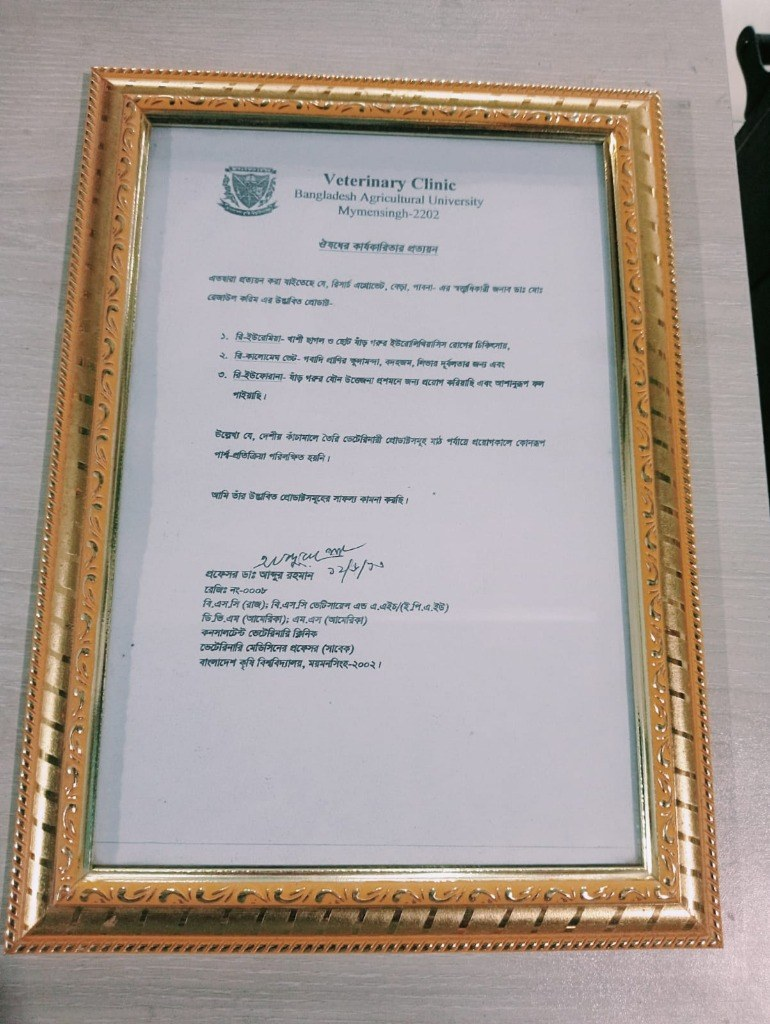
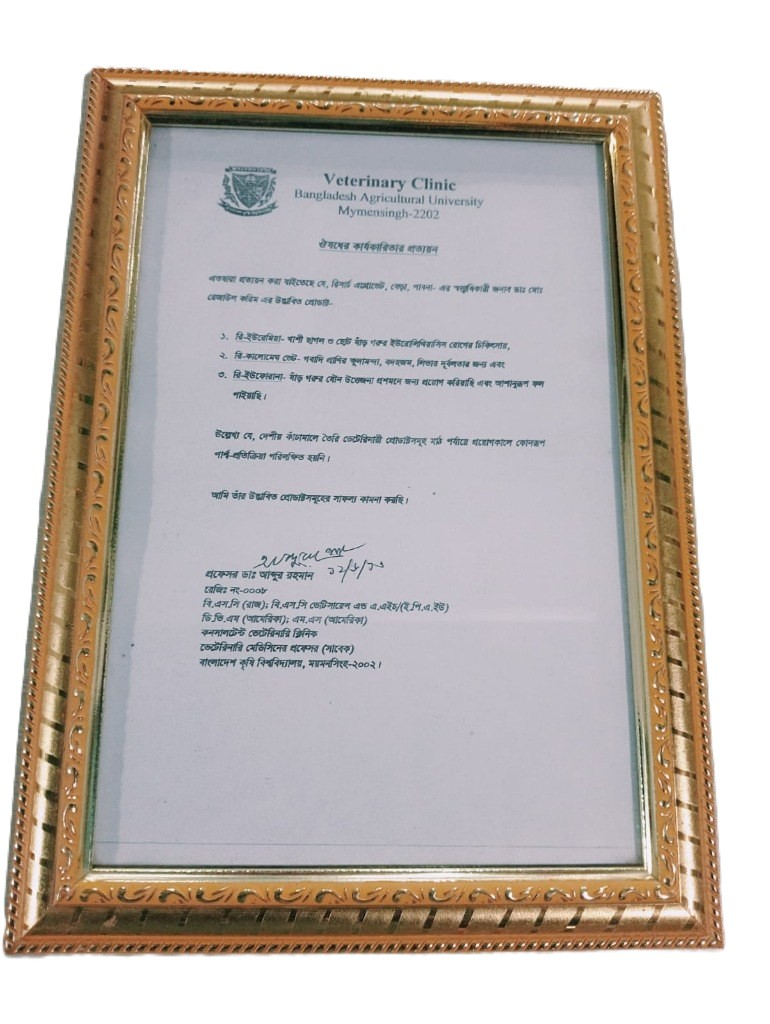
fix(founder): disable image downsampling with unoptimized to ensure 100% original sharpness

Changed region(s): [[0.0, 0.0, 1.0, 1.0]]

diff --git a/src/components/storefront/FounderAchievements.tsx b/src/components/storefront/FounderAchievements.tsx
@@ -65,38 +65,35 @@ export default function FounderAchievements() {
         
         {/* Section Header */}
         <div className="text-center max-w-2xl mx-auto mb-10 sm:mb-14">
-          <div className="inline-flex items-center gap-1.5 px-3 py-1 rounded-full bg-emerald-50 text-emerald-800 border border-emerald-200/90 text-xs font-bold mb-3">
-            <ShieldCheck className="w-4 h-4 text-emerald-700" />
-            <span>অফিসিয়াল স্বীকৃতি ও উদ্ভাবন</span>
-          </div>
+        
           <h2 className="text-2xl sm:text-3xl lg:text-4xl font-extrabold text-slate-900 tracking-tight">
             গবেষক ও উদ্ভাবক পরিচিতি
           </h2>
-          <p className="text-xs sm:text-sm text-slate-600 mt-2">
+          {/* <p className="text-xs sm:text-sm text-slate-600 mt-2">
             রিসার্চ এগ্রোভেট-এর স্বত্বাধিকারী ও সরকারি পেটেন্টপ্রাপ্ত উদ্ভাবনসমূহ
-          </p>
+          </p> */}
         </div>
 
         {/* Top Split: Founder Profile & 3 Official Recognitions */}
         <div className="grid grid-cols-1 lg:grid-cols-12 gap-6 lg:gap-8 items-start mb-10">
           
           {/* Founder Identity Card (Left) */}
-          <div className="lg:col-span-5 bg-white rounded-2xl border border-slate-200 shadow-sm p-6 sm:p-7 flex flex-col items-center text-center">
-            <div className="relative w-44 h-56 sm:w-48 sm:h-60 rounded-xl overflow-hidden border-2 border-emerald-600 shadow-md mb-4 bg-slate-100">
+          <div className="lg:col-span-5 flex py-10 flex-col items-center text-center">
+            <div className="relative w-44 h-56 sm:w-80 sm:h-96 rounded-xl overflow-hidden mb-4 shadow-sm bg-slate-100">
               <Image
-                src="/images/founder/dr-rezaul-karim.jpg"
+                src="/images/founder/dr-rezaul-karim-enhanced.png"
                 alt="ডাঃ মোঃ রেজাউল করিম — সফল গবেষক ও উদ্ভাবক"
                 fill
+                unoptimized
                 className="object-cover object-top"
-                sizes="(max-width: 640px) 176px, 192px"
                 priority
               />
             </div>
 
             <div className="space-y-1">
-              <span className="inline-block px-2.5 py-0.5 rounded-full bg-emerald-100 text-emerald-800 text-[11px] font-bold border border-emerald-200">
+              {/* <span className="inline-block px-2.5 py-0.5 rounded-full bg-emerald-100 text-emerald-800 text-[11px] font-bold border border-emerald-200">
                 সফল গবেষক ও উদ্ভাবক
-              </span>
+              </span> */}
               <h3 className="text-xl sm:text-2xl font-black text-slate-900 tracking-tight pt-1">
                 ডাঃ মোঃ রেজাউল করিম
               </h3>
@@ -109,7 +106,7 @@ export default function FounderAchievements() {
             </div>
 
             {/* Micro Specs */}
-            <div className="grid grid-cols-2 gap-2 w-full mt-5 pt-4 border-t border-slate-100 text-left">
+            {/* <div className="grid grid-cols-2 gap-2 w-full mt-5 pt-4 border-t border-slate-100 text-left">
               <div className="bg-slate-50 p-2.5 rounded-lg border border-slate-200/70">
                 <span className="text-[10px] text-slate-500 font-medium block">সরকারি স্বীকৃতি</span>
                 <span className="text-xs font-extrabold text-slate-800">২টি পেটেন্ট সনদ</span>
@@ -118,7 +115,7 @@ export default function FounderAchievements() {
                 <span className="text-[10px] text-slate-500 font-medium block">ক্লিনিক্যাল ট্রায়াল</span>
                 <span className="text-xs font-extrabold text-slate-800">BAU প্রত্যয়নপ্রাপ্ত</span>
               </div>
-            </div>
+            </div> */}
           </div>
 
           {/* 3 Core Official Documents Cards (Right) */}
@@ -306,3 +303,4 @@ export default function FounderAchievements() {
     </section>
   );
 }
+
